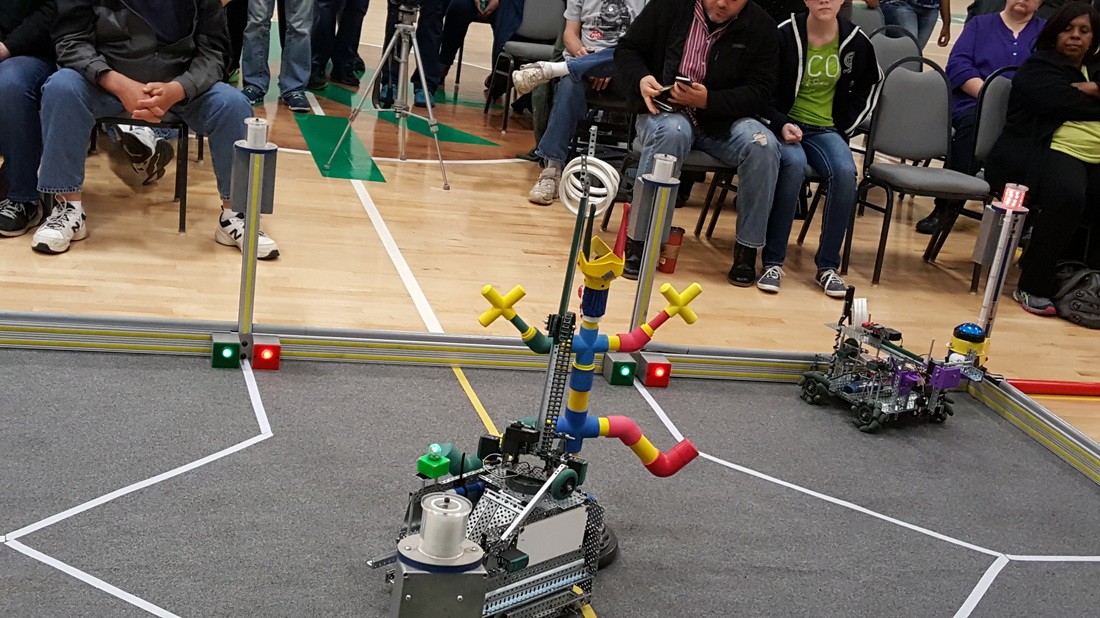
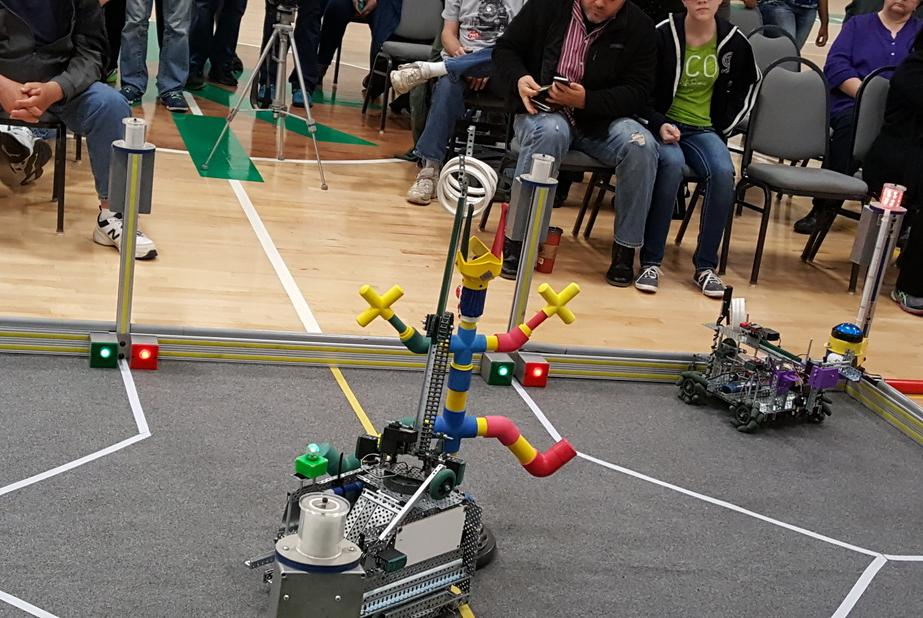
adding transitions for the images

diff --git a/main/CHS Start.html b/main/CHS Start.html
@@ -18,14 +18,17 @@
       
   <script>
   var imagePath = "media/";
-  var showImages = ["ybot2016team.jpg", "ybot2016bot1.jpg", "ybot2016bot2.jpg"];
+  var showImages = ["ybot2016team.jpg", "ybot2016bot1.jpg"];
   var imageNum = 1;
-  var mainImages = document.getElementById("main-images");
+  var prevImg = 1;
   function showImage() {
   		document.getElementById("main-images").src = imagePath + showImages[imageNum - 1];
+  		//document.getElementById("main-images").style="background-image:url({file})".replace("{file}", imagePath + showImages[prevImg]);
+  		Materialize.fadeInImage("#main-images");
   }
   function imageLeft() {
       //scroll one image to the left
+      prevImg = imageNum;
   		imageNum -= 1;
   		if (imageNum < 1) {
   			imageNum = showImages.length;
@@ -34,6 +37,7 @@
   }  
   function imageRight() {
       //scroll one image to the right
+      prevImg = imageNum;
 		imageNum += 1;
 		if (imageNum > showImages.length) {
 			imageNum = 1;
@@ -42,8 +46,8 @@
   }
   
   //repeat scrolling image on an interval
-  window.setInterval("imageRight()", 5000);
-  </script>  
+  window.setInterval("imageRight()", 4000);
+  </script>
   
 </head>
 <body>
@@ -53,9 +57,9 @@
       <ul class="right hide-on-med-and-down">
         <li><a href="About.html">About</a></li>
         <li><a href="Videos.html">Videos</a></li>
+      </ul>
         <li><a href="Roster.html">Roster</a></li>
 	<li><a href="Forms.html">Forms</a></li>
-      </ul>
 
       <ul id="nav-mobile" class="side-nav">
         <li><a href="CHS%20Start.html">CHS Robotics</a></li>
@@ -72,7 +76,7 @@
     <div class="container">
       <h1 class="header center blue-text text-darken-3">CHS Robotics</h1>
       <div class="row center">
-        <img id="main-images" height="500px" src="media/ybot2016team.jpg">
+        <img class="center responsive-img" id="main-images" width="80%" src="media/ybot2016team.jpg">
         <br>
         <h5 class="header col s12 blue-text text-darken-3">Who are we?</h5>
       </div>
